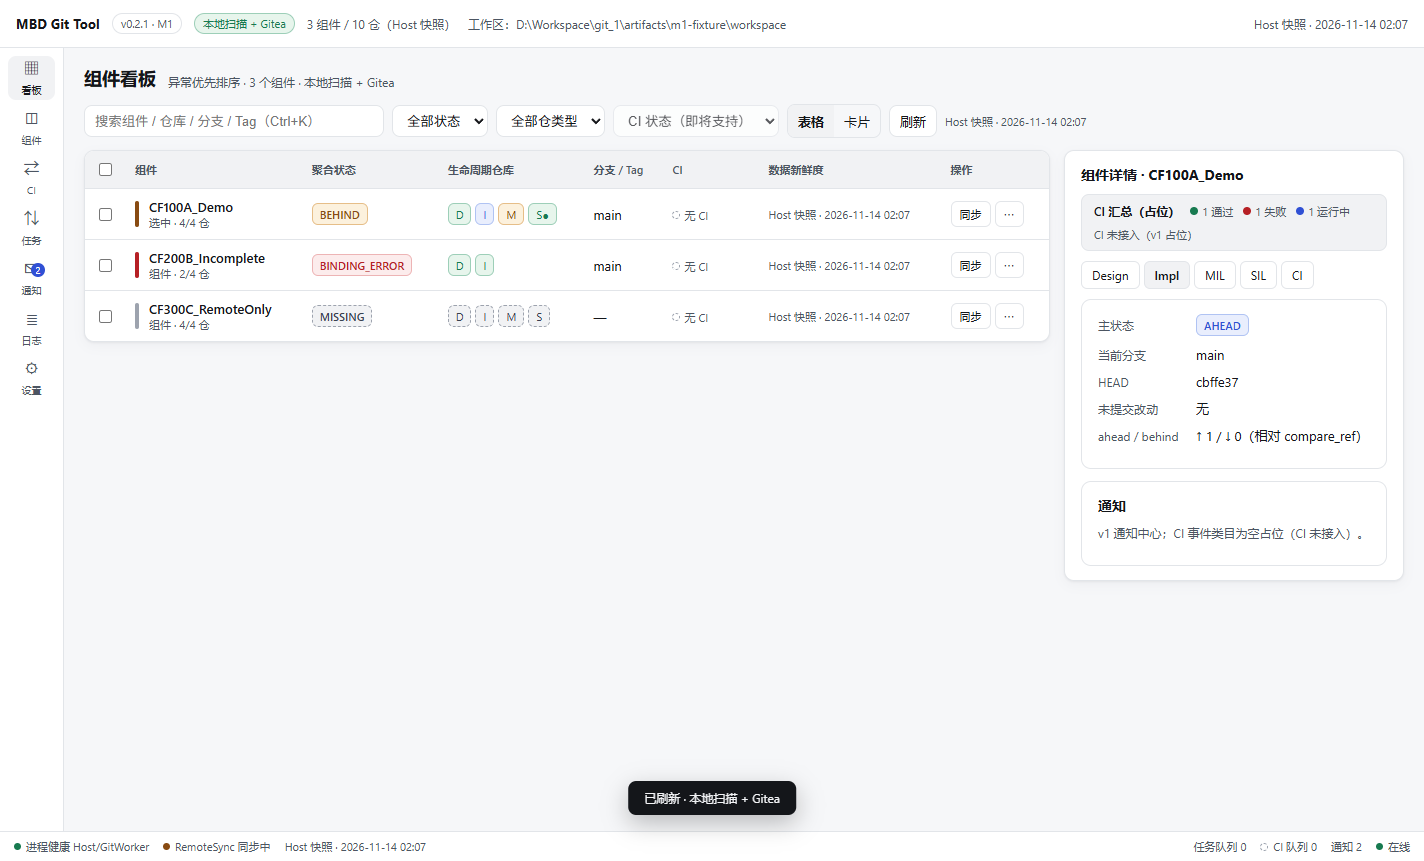
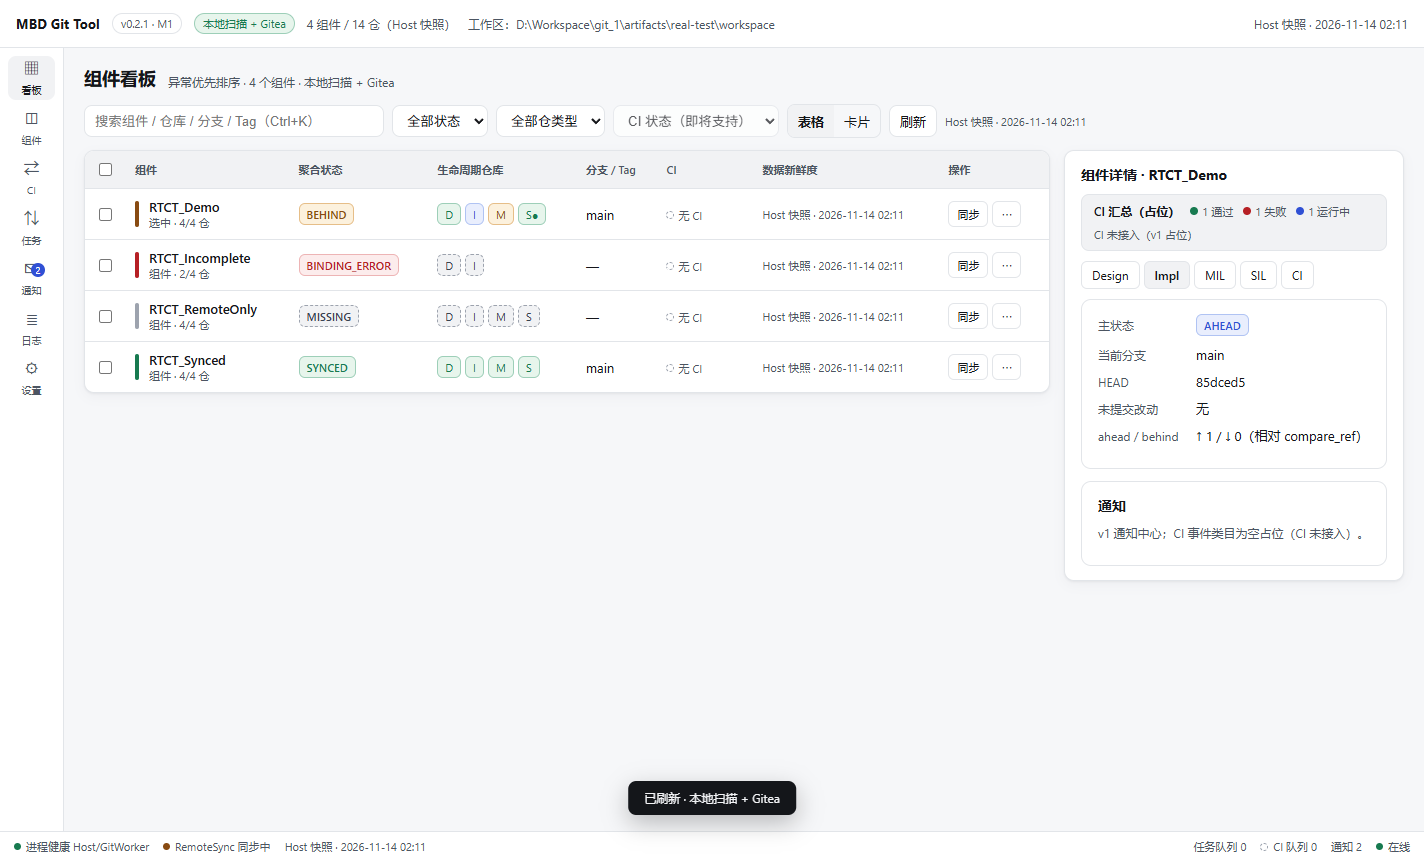
test(m1): real Gitea (RTCRepos) end-to-end and mouse/keyboard interaction
- created 15 test repos under RTCRepos (auto_init), 3 commit rounds across 8 local clones
- states: Demo=BEHIND (Design synced/Impl ahead/MIL behind/SIL dirty), Synced=SYNCED, RemoteOnly=MISSING, Incomplete=BINDING_ERROR, unbound excluded
- tool connected via env config: source 'local+gitea', 4 components / 14 repos, refresh works, 0 console errors
- CDP Input tests: mouse search/click row/tabs/nav/settings/refresh, keyboard type + Ctrl+A+Backspace
- report + screenshots in docs/real-gitea-test.md; token never stored in repo

diff --git a/docs/real-gitea-test.md b/docs/real-gitea-test.md
@@ -1,0 +1,91 @@
+# 真实 Gitea 端到端测试记录（RTCRepos）
+
+> 日期：2026-11-14　环境：`http://192.168.50.20:3000`（Gitea 1.25.5）
+> 测试性质：真实 Gitea + 真实 git 提交 + 真实本地工作区 + 鼠标/键盘操作（CDP Input 事件）。
+> **token 未写入仓库/文档/日志**；下方只记录 scope 结论。
+
+## 1. 环境与权限结论
+
+| 项 | 结果 |
+|---|---|
+| Gitea 版本 | 1.25.5 |
+| 组织 | `RTCRepos`（私有，owner `trevn.wang`） |
+| token A（首枚） | scope 仅 `write:repository`：`/user`、`/orgs/...` 403；不能列组织/建仓；但对 `TestRepo/SF104A_Component_*` 有 admin/push |
+| token B（第二枚） | 可读取 `RTCRepos` 组织、可创建仓库，用于本次测试 |
+| 建仓方式 | `POST /api/v1/orgs/RTCRepos/repos`（`auto_init=true`, `default_branch=main`） |
+
+> 由于 token A 的 scope 限制，本次同时给 `GiteaClient` 增加了**所有者发现降级链** org → user → search（`fix(gitea)` 提交），使受限 PAT 环境也能只读发现仓库；RTCRepos 测试走 org 路径。
+
+## 2. 创建的测试仓库（15 个，保留在 RTCRepos 供复查）
+
+| 用途 | 仓库 |
+|---|---|
+| 状态混合组件 | `RTCT_Demo_Design/Impl/MIL/SIL` |
+| 全同步组件 | `RTCT_Synced_Design/Impl/MIL/SIL` |
+| 远程独有（本地不克隆） | `RTCT_RemoteOnly_Design/Impl/MIL/SIL` |
+| 远程缺仓 | `RTCT_Incomplete_Design/Impl` |
+| 未绑定命名 | `RTCT_Unbound_SIL_Design` |
+
+## 3. 真实提交轮次（本地工作区 `artifacts/real-test/workspace`）
+
+- 克隆 `RTCT_Demo_*` + `RTCT_Synced_*` 共 8 仓（HTTP + token，clone 后 remote URL 去掉 token）；
+- **Round 1**：8 仓各新增 `component.txt` 并 push；
+- **Round 2**：8 仓各改一行版本号并 push；
+- **Round 3**：
+  - `RTCT_Synced_*`、`RTCT_Demo_Design` → push（SYNCED）；
+  - `RTCT_Demo_Impl` → 只本地 commit（AHEAD 1）；
+  - `RTCT_Demo_MIL` → 临时克隆 push 后工作区 fetch（BEHIND 1）；
+  - `RTCT_Demo_SIL` → 只改工作区不提交（DIRTY 1）。
+
+## 4. 工具接入后的结果（预期 vs 实际）
+
+启动方式（环境变量注入，不写配置文件）：
+
+```powershell
+$env:MBD_GITEA_URL   = 'http://192.168.50.20:3000'
+$env:MBD_GITEA_ORG   = 'RTCRepos'
+$env:MBD_GITEA_TOKEN = '<token>'
+$env:MBD_WORKSPACE_ROOT = '<repo>\artifacts\real-test\workspace'
+dotnet run --project src\MbdGitTool.Host
+```
+
+| 组件 | 远程/本地 | 预期 | 实际 | 明细（鼠标点开） |
+|---|---|---|---|---|
+| `RTCT_Demo` | 4/4 | BEHIND | ✅ **BEHIND** | D SYNCED / I AHEAD ↑1 / M BEHIND ↓1 / S DIRTY（S●） |
+| `RTCT_Synced` | 4/4 | SYNCED | ✅ **SYNCED** | 四仓 SYNCED，工作区干净 |
+| `RTCT_RemoteOnly` | 4/0 | MISSING | ✅ **MISSING** | 四仓本地均 MISSING |
+| `RTCT_Incomplete` | 2/0 | BINDING_ERROR | ✅ **BINDING_ERROR** | 远程缺 MIL/SIL（INCOMPLETE，severity 12） |
+| `RTCT_Unbound_SIL_Design` | — | 不绑定 | ✅ 仅日志告警 | 未进入组件列表 |
+
+- 数据源徽标：`本地扫描 + Gitea`；标题栏显示 `4 组件 / 14 仓（Host 快照）` 与工作区路径；
+- 刷新：鼠标点击 → `刷新中…` → Toast「已刷新 · 本地扫描 + Gitea」；
+- 控制台：0 error / 0 exception；1440×900 无横向溢出。
+
+## 5. 鼠标/键盘操作测试（CDP Input，非 JS click）
+
+| # | 操作 | 结果 |
+|---|---|---|
+| 1 | 鼠标点搜索框 → 键盘输入 `RTCT_Demo` | 列表 4→1 行，首行 `RTCT_Demo` |
+| 2 | 键盘 `Ctrl+A` + `Backspace` | 恢复 4 行 |
+| 3 | 鼠标点 `RTCT_Demo` 行 | 详情面板切换；四仓 Tab 状态：Design SYNCED / Impl AHEAD(↑1) / MIL BEHIND(↓1) / SIL DIRTY(有改动) |
+| 4 | 鼠标依次点导航 组件/CI/任务/通知/日志/设置 | 页面标题依次：组件列表 / CI 流水线 / 任务中心 / 通知中心 / 日志与诊断 / 设置 |
+| 5 | 鼠标点设置 → CI 集成 | CI 分区（禁用占位）显示 |
+| 6 | 鼠标点刷新 | `刷新中…` → 完成 Toast |
+| 7 | 鼠标滚轮 | 看板内容不足一屏，无滚动（预期） |
+
+## 6. 截图
+
+| 截图 | 内容 |
+|---|---|
+| ![真实 Gitea 看板](images/m1/real-board.png) | 4 组件 / 14 仓 / 数据源 `本地扫描 + Gitea` |
+| ![搜索过滤](images/m1/real-filter.png) | 鼠标点搜索框 + 键盘输入过滤 |
+| ![详情 Tab](images/m1/real-detail-impl.png) | 四仓 Tab / ahead-behind |
+| ![设置 CI](images/m1/real-settings-ci.png) | 设置 → CI 集成占位 |
+| ![刷新](images/m1/real-refresh.png) | 鼠标刷新 + Toast |
+
+## 7. 限制与说明
+
+- 工具当前为 **M1 只读**：不对 Gitea/本地仓库执行写操作；提交由测试脚本用 git 完成。
+- `RTCRepos` 测试仓库保留在服务器，可登录复核；本地工作区在 `artifacts/real-test/workspace`（gitignored）。
+- token 未写入任何受版本管理文件；测试脚本在 `artifacts/real-test/`（gitignored），通过参数/环境变量注入。
+- CI 未接（v1 占位）；远程 refs/fetch 巡检、三阶段首扫进度、GitWorker 管道仍属 M1-b。

diff --git a/docs/m1-status.md b/docs/m1-status.md
@@ -48,7 +48,7 @@ src/MbdGitTool.Host/
 | 本地+Gitea（假 Gitea API） | 3 组件：CF100A **BEHIND**（MIL 落后）、CF200B **BINDING_ERROR**（远程缺 MIL/SIL）、CF300C **MISSING**（远程独有、本地未克隆）；数据源 `本地扫描 + Gitea` |
 | 刷新 | 点击刷新 → `刷新中…` → 完成 Toast「已刷新 · 本地扫描 + Gitea」，行数稳定 |
 | 控制台 | 0 error / 0 exception；1440×900 无横向溢出 |
-| 截图 | ![M1 看板](images/m1/board-real.png) · [组件列表](images/m1/components-real.png) |
+| 真实 Gitea | RTCRepos 15 仓 + 3 轮真实提交；工具接入后 4 组件/14 仓，Demo=BEHIND、Synced=SYNCED、RemoteOnly=MISSING、Incomplete=BINDING_ERROR；详见 [real-gitea-test.md](real-gitea-test.md) |\n| 鼠标/键盘 | CDP Input 事件：搜索输入/清空、点行、切 Tab、点导航、点设置、点刷新全部通过；0 console error |\n| 截图 | ![M1 看板](images/m1/board-real.png) · [组件列表](images/m1/components-real.png) · [真实 Gitea 测试](real-gitea-test.md) |
 
 ## 4. 如何本地运行
 

diff --git a/README.md b/README.md
@@ -20,7 +20,7 @@ ui/                            # Vue 3 + TS + Vite：App Shell / 看板 Mock / C
 docs/
 ├─ dev-environment.md          # 本机工具链体检与复现命令
 ├─ vs-workflow.md              # VS 打开/编译/测试/发布命令与验证记录
-├─ ui-review-m0.md             # M0 界面自检（CDP 驱动、截图、修复记录）\n├─ m1-status.md                # M1-a：本地扫描 + Gitea 只读同步 + 真实看板（含验证/偏差）
+├─ ui-review-m0.md             # M0 界面自检（CDP 驱动、截图、修复记录）\n├─ m1-status.md                # M1-a：本地扫描 + Gitea 只读同步 + 真实看板（含验证/偏差）\n├─ real-gitea-test.md          # 真实 Gitea（RTCRepos）端到端 + 鼠标键盘操作测试
 └─ m0-status.md                # M0 完成状态、运行方式、CI 锚点映射
 artifacts/                     # 发布产物（gitignored）：publish/ + zip
 reqs/                          # 需求工程（唯一需求源 + 评审证据 + 冻结资产）
